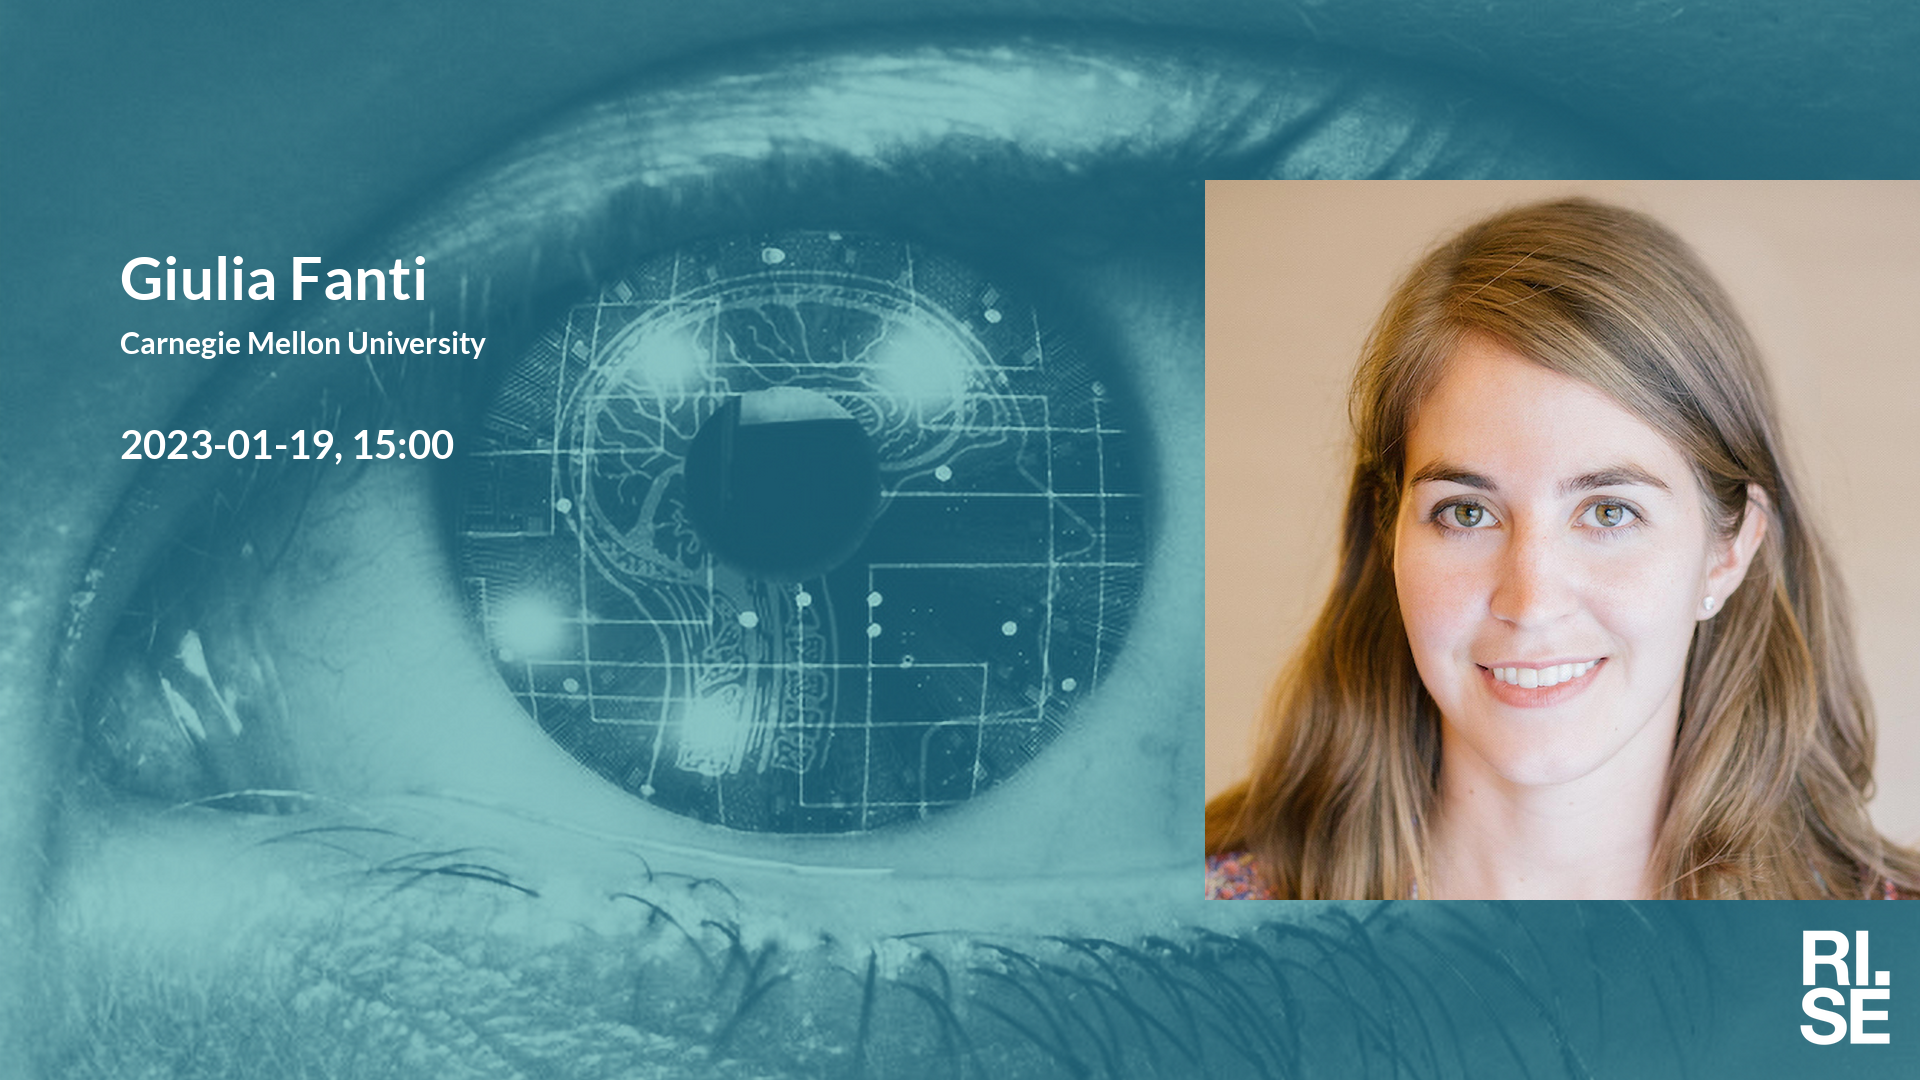
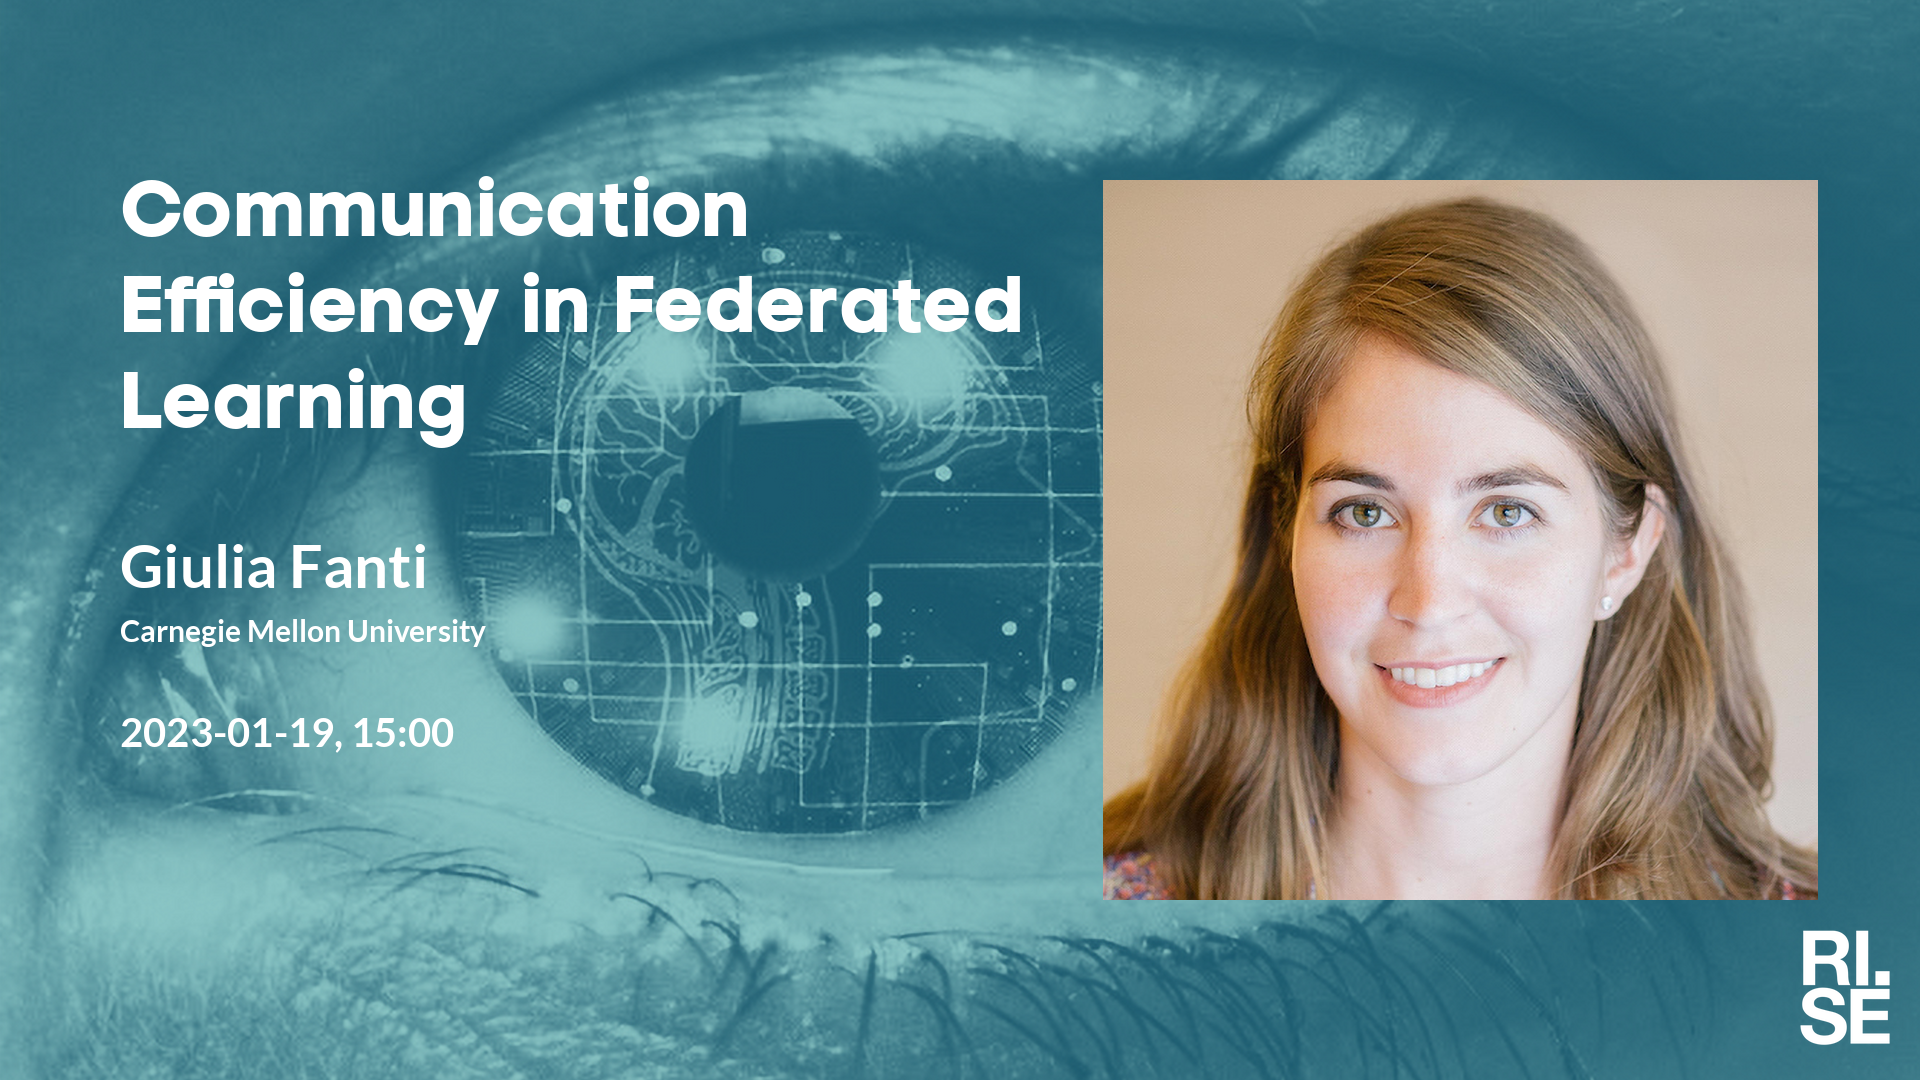
Updated plan on web site.

diff --git a/lm/2023-01-19.md b/lm/2023-01-19.md
@@ -1,17 +1,23 @@
 Welcome to this week's Learning Machines seminar.
 
-**Title:** 
+**Title:** Reducing the Communication Complexity of Federated Learning through Multistage Optimization
 
 **Speaker:** Giulia Fanti, Carnegie Mellon University
 
-**Abstract:** 
+**Abstract:** Federated learning (FL) aims to minimize the communication cost of training a model over heterogeneous data distributed across many clients. A common approach is local update methods, where clients take multiple optimization steps over local data before communicating with the server (e.g., FedAvg). When clients’ data is homogeneous, local methods converge fast with a small number of communications. On the other hand, when clients are highly heterogeneous, global update methods, where clients take one optimization step per communication round (e.g., SGD), significantly outperform local methods. A fundamental question in FL is how to exploit the benefits of both local and global approaches to achieve near-optimal convergence rates for all heterogeneity regimes. To this end, we propose a federated chaining framework; we first run a local-update method up to a heterogeneity-induced error floor and then switch to a global-update method. Federated chaining is the first approach to achieve near-optimal convergence rates for strongly convex functions and non-convex PL functions. Empirical results support this theoretical gain over existing methods.
 
-**About the speaker:** 
+**About the speaker:** Giulia Fanti is an Assistant Professor of Electrical and Computer Engineering at Carnegie Mellon University. Her research interests span the security, privacy, and efficiency of distributed systems. She is a two-time fellow of the World Economic Forum’s Global Future Council on Cybersecurity and a member of NIST’s Information Security and Privacy Advisory Board. Her work has been recognized with several awards, including best paper awards, a Sloan Fellowship, an Intel Rising Star Faculty Award, and a SIGMETRICS Rising Star Award. She obtained her Ph.D. in EECS from U.C. Berkeley and her B.S. in ECE from Olin College of Engineering.
 
 **Location:** This is an online seminar. Connect using Zoom.
 
 **Zoom link:** [https://rise.zoom.us/j/208117140](https://rise.zoom.us/j/208117140)
 
+**Upcoming seminars:**
+
+* 2023-02-23: Alexander Ilin, Aalto University
+* 2023-03-09: Shay Cohen, University of Edinburgh
+* 2023-04-13: Elijah Cole, Caltech
+* 2023-04-20: Rico Sennrich, University of Zurich
 
 More information and coming seminars: [https://ri.se/lm-sem](https://ri.se/lm-sem)
 

diff --git a/lm/index.md b/lm/index.md
@@ -1,7 +1,7 @@
 <style type="text/css" scoped>
 td, th {border: 1px solid #ccc; padding: 0.6em;}
 table {border-collapse: collapse;}
-</style># Learning Machines Plan 2022-12-08
+</style># Learning Machines Plan 2022-12-09
 
 | date | speaker                                   | photo | shareable | meeting backdrop | youtube thumbnail | comment        |
 | ---- | ----------------------------------------- | ----- | ----- | ----- | ----- | -------------- |
